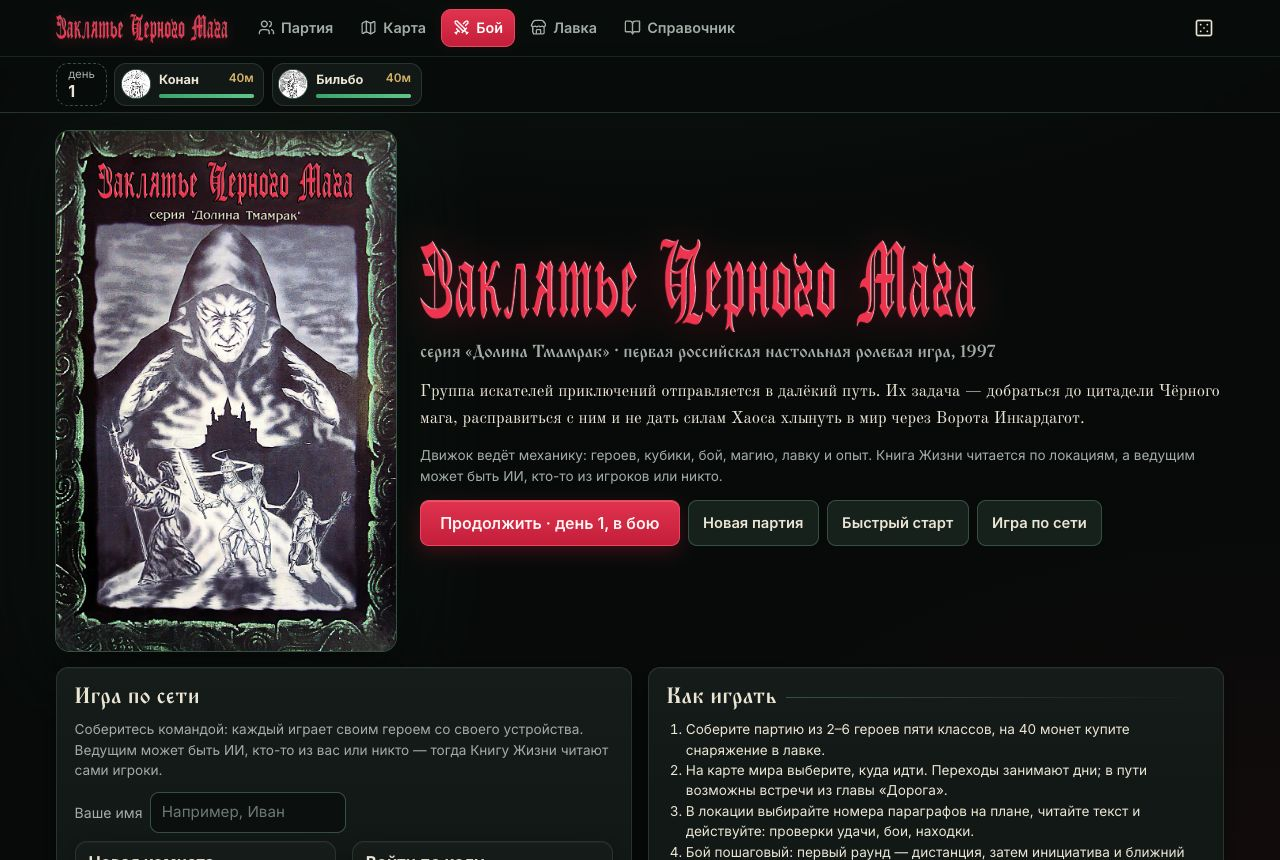
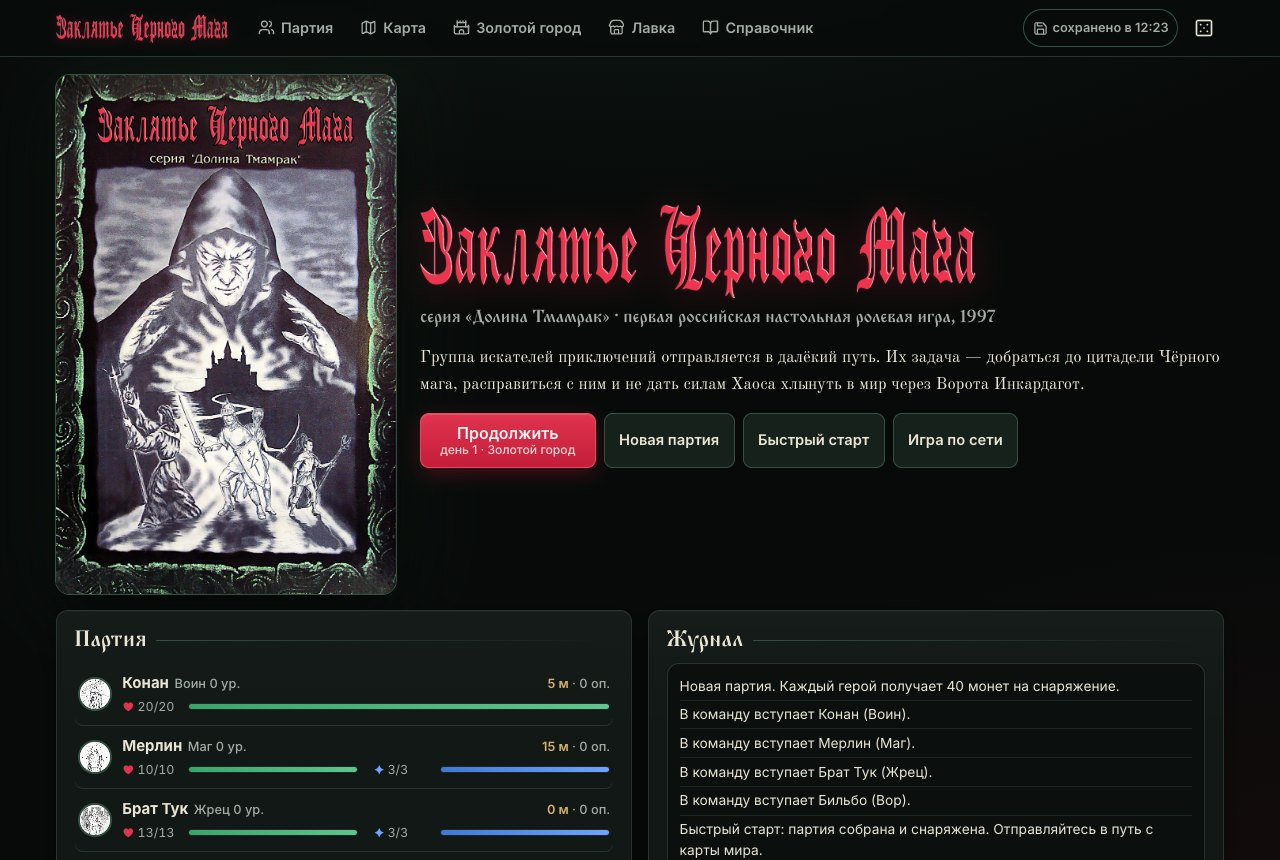
docs: record the interface declutter and re-shoot the readme screenshots
The readme images now come from tools/qa/readme-shots.mjs: home and location on desktop, four phone screens in a row.

diff --git a/docs/PROGRESS.md b/docs/PROGRESS.md
@@ -1,6 +1,6 @@
 # Состояние проекта
 
-Обновлено: 2026-11-20 (тридцатая итерация: планы локаций без «телепорта» — по всем 14 планам партия идёт из помещения в соседнее, видит выходы словами («впереди площадь, направо дверь»), план открывается по мере пути; сетевая игра выложена на https://zchm.onrender.com. Двадцать девятая: игроки проходят сами — карта мира открывается постепенно, ручные инструменты ведущего убраны с экрана игрока и остались только в «Режиме ведущего», читать можно только там, где партия. Двадцать восьмая: репозиторий опубликован, одиночная игра выложена на GitHub Pages — https://goncharof.github.io/zchm/, код под MIT (`LICENSE`, `NOTICE.md`); бесплатный хостинг — комнаты в Postgres (`DATABASE_URL`) для Render + Neon, `render.yaml`, сбой базы не выглядит для игрока как «комната не найдена»; workflow GitHub — тесты на каждый push, Pages только из публичного репозитория. Двадцать седьмая: понятные сохранения — метка «сохранено» в верхней панели и окно «Сохранения» с любого экрана, в сетевой игре «Отложить игру» вместо «Выйти» (герои и права хозяина остаются), «Недавние комнаты» и «Вернуться за стол» на главной, ссылка на комнату подставляет код. Двадцать шестая: плавная передача хода между моделями и сценарным ведущим — молчащая модель уступает через 20 с, а не через полторы минуты, начатый рассказ остаётся у игроков с пометкой и продолжается следующей моделью. Двадцать пятая: ИИ-рассказчик поверх сценарного ведущего (модель дописывает фразу-другую атмосферы к сцене и исходу боя, механику не трогает; хозяин выключает), проверен на живых моделях; модель OpenRouter по умолчанию заменена (прежняя стала платной); Mistral отложен — бесплатный уровень требует карту и депозит. Двадцать четвёртая: составные реплики («берём монеты и идём в 5»), при встрече названы уровень и защита монстра (стр. 18), «Идти дальше» перечисляет непройденные помещения; одиночная игра получила нападения по книге и напоминания-рефери. Двадцать третья: сценарный ведущий начинает бой сам там, где по книге монстры нападают (217 этапов, пометка `attack`), отвечает на «где мы» сводкой (непройденные помещения, невыбранные варианты, незаконченный бой), на вопросы — фразами сцены, и напоминает о назревшем по правилам (герой при смерти, яд, невыбранное заклинание, спутник на последний бой). Двадцать вторая: «Воплощение» и «Возврат времени» в движке — облик монстра до конца боя, повтор действия уже сходившего героя; связки-атмосфера у сценарного ведущего при первом входе в помещение и после боя. Двадцать первая: сценарный ведущий без ИИ — игры в кости по ХАУСРУЛУ (30 мест книги), ручные заклинания жреца и мага по дереву книги и Бестиарию, свободные реплики нажимают подходящую кнопку, «решение стола» для действий, которых нет в книге; сценарный ведущий — режим комнаты по умолчанию; Mistral в цепочке моделей (не проверен); таверна Северного форта — § 37, как на плане (в оцифровке напечатана как 38). Двадцатая: обход Книги Жизни ботом — каждый параграф всеми путями кнопок и сценарный ведущий на настоящей сессии; исправлено: бой с 60 орками не начинался (Крепость рыцарей, § 41), ИИ-ведущий не начинал бой больше чем с 30 монстрами одного вида (Упокоище, § 18 — 40 скелетов), сценарный ведущий действовал героем без сознания. Девятнадцатая: ревью оформления на телефоне и компьютере — альбомная ориентация телефона, подсветка нажатий на тач-экранах, поля ввода без приближения в iOS, поле реплики у нижнего края; новый вид экрана боя, главной, листа героя, лавки и стола. Восемнадцатая: Книга Жизни — дерево этапов для обоих ведущих и одиночной игры, вся книга размечена вручную (413 деревьев), финальная дуэль у сценарного ведущего. Семнадцатая: защита сервера для игры через туннель — права хозяина, подбор кода, размер сообщений, частота ходов ИИ, подсказки модели из чата; лавка без «покупки» артефактов. Шестнадцатая: перелёт на призрачном драконе, «Невидимость» до боя, награды книги — по частям параграфа и через ведущего, списки «на каждый», цель на Гидре, листы героев в две колонки. Пятнадцатая: аудиты боя и приключения, ревью интерфейса — монстры с несколькими атаками, фонтаны и награды книги один раз, закрыта подмена героя по сети, инвентарь и большие бои на телефоне. Четырнадцатая: аудиты заклинаний героев и снаряжения — 22 исправления, чтение свитков, яд для стрел; разметка книги: 186 правок, разрезание слитых веток. Тринадцатая: монстры применяют все свои заклинания — «Очаровывание», «Несчастье»,
+Обновлено: 2026-11-24 (тридцать первая итерация: разгрузка интерфейса — главная при начатой партии стала экраном «Продолжить», настройки комнаты ушли в окно «Комната», подсказки — под «?», полоса партии только там, где нужна, журнал боя — только этот бой, в шапке вкладки не наезжают на плашки. Тридцатая: планы локаций без «телепорта» — по всем 14 планам партия идёт из помещения в соседнее, видит выходы словами («впереди площадь, направо дверь»), план открывается по мере пути; сетевая игра выложена на https://zchm.onrender.com. Двадцать девятая: игроки проходят сами — карта мира открывается постепенно, ручные инструменты ведущего убраны с экрана игрока и остались только в «Режиме ведущего», читать можно только там, где партия. Двадцать восьмая: репозиторий опубликован, одиночная игра выложена на GitHub Pages — https://goncharof.github.io/zchm/, код под MIT (`LICENSE`, `NOTICE.md`); бесплатный хостинг — комнаты в Postgres (`DATABASE_URL`) для Render + Neon, `render.yaml`, сбой базы не выглядит для игрока как «комната не найдена»; workflow GitHub — тесты на каждый push, Pages только из публичного репозитория. Двадцать седьмая: понятные сохранения — метка «сохранено» в верхней панели и окно «Сохранения» с любого экрана, в сетевой игре «Отложить игру» вместо «Выйти» (герои и права хозяина остаются), «Недавние комнаты» и «Вернуться за стол» на главной, ссылка на комнату подставляет код. Двадцать шестая: плавная передача хода между моделями и сценарным ведущим — молчащая модель уступает через 20 с, а не через полторы минуты, начатый рассказ остаётся у игроков с пометкой и продолжается следующей моделью. Двадцать пятая: ИИ-рассказчик поверх сценарного ведущего (модель дописывает фразу-другую атмосферы к сцене и исходу боя, механику не трогает; хозяин выключает), проверен на живых моделях; модель OpenRouter по умолчанию заменена (прежняя стала платной); Mistral отложен — бесплатный уровень требует карту и депозит. Двадцать четвёртая: составные реплики («берём монеты и идём в 5»), при встрече названы уровень и защита монстра (стр. 18), «Идти дальше» перечисляет непройденные помещения; одиночная игра получила нападения по книге и напоминания-рефери. Двадцать третья: сценарный ведущий начинает бой сам там, где по книге монстры нападают (217 этапов, пометка `attack`), отвечает на «где мы» сводкой (непройденные помещения, невыбранные варианты, незаконченный бой), на вопросы — фразами сцены, и напоминает о назревшем по правилам (герой при смерти, яд, невыбранное заклинание, спутник на последний бой). Двадцать вторая: «Воплощение» и «Возврат времени» в движке — облик монстра до конца боя, повтор действия уже сходившего героя; связки-атмосфера у сценарного ведущего при первом входе в помещение и после боя. Двадцать первая: сценарный ведущий без ИИ — игры в кости по ХАУСРУЛУ (30 мест книги), ручные заклинания жреца и мага по дереву книги и Бестиарию, свободные реплики нажимают подходящую кнопку, «решение стола» для действий, которых нет в книге; сценарный ведущий — режим комнаты по умолчанию; Mistral в цепочке моделей (не проверен); таверна Северного форта — § 37, как на плане (в оцифровке напечатана как 38). Двадцатая: обход Книги Жизни ботом — каждый параграф всеми путями кнопок и сценарный ведущий на настоящей сессии; исправлено: бой с 60 орками не начинался (Крепость рыцарей, § 41), ИИ-ведущий не начинал бой больше чем с 30 монстрами одного вида (Упокоище, § 18 — 40 скелетов), сценарный ведущий действовал героем без сознания. Девятнадцатая: ревью оформления на телефоне и компьютере — альбомная ориентация телефона, подсветка нажатий на тач-экранах, поля ввода без приближения в iOS, поле реплики у нижнего края; новый вид экрана боя, главной, листа героя, лавки и стола. Восемнадцатая: Книга Жизни — дерево этапов для обоих ведущих и одиночной игры, вся книга размечена вручную (413 деревьев), финальная дуэль у сценарного ведущего. Семнадцатая: защита сервера для игры через туннель — права хозяина, подбор кода, размер сообщений, частота ходов ИИ, подсказки модели из чата; лавка без «покупки» артефактов. Шестнадцатая: перелёт на призрачном драконе, «Невидимость» до боя, награды книги — по частям параграфа и через ведущего, списки «на каждый», цель на Гидре, листы героев в две колонки. Пятнадцатая: аудиты боя и приключения, ревью интерфейса — монстры с несколькими атаками, фонтаны и награды книги один раз, закрыта подмена героя по сети, инвентарь и большие бои на телефоне. Четырнадцатая: аудиты заклинаний героев и снаряжения — 22 исправления, чтение свитков, яд для стрел; разметка книги: 186 правок, разрезание слитых веток. Тринадцатая: монстры применяют все свои заклинания — «Очаровывание», «Несчастье»,
 «Инициатива», «Паутина» и «Удушье» по всей партии; заклинания, которые движок не отыгрывает, уходят ведущему;
 исправлен самоперезапуск автосохранения; четвёртое ревью — исправлены все находки).
 
@@ -45,7 +45,10 @@
 **Приложение**
 - Оформление в духе коробки 1997 года: логотип — надпись с обложки, обложка на главной, палитра коробки, пергамент
   для текста Книги; современная раскладка — вкладки с иконками на компьютере, нижняя панель на телефоне.
-- Экраны: главная (продолжить, быстрый старт, слоты, журнал), партия, лавка и трактир, карта с маршрутом,
+- Без лишнего на экране (`docs/DECISIONS.md`, «Разгрузка интерфейса»): главная при начатой партии — «Продолжить»,
+  партия и журнал, сетевая игра и сохранения открываются кнопкой; пояснения — под знаком вопроса (`HintTip.vue`);
+  полоса партии — на карте, в локации, за столом и в лавке; настройки комнаты — в окне «Комната».
+- Экраны: главная (продолжить, быстрый старт, журнал), партия, лавка и трактир, карта с маршрутом,
   локация (параграф по этапам: варианты кнопками, исходы открываются сами; «Весь текст» — целиком), бой, бестиарий с фильтрами, заклинания,
   правила, предыстория, об игре.
 - Автосохранение с миграцией, три слота, файл сохранения (скачать / загрузить), режим ведущего, лоток кубиков, автоход монстров,
@@ -60,7 +63,7 @@
   прилипает к нижней панели (`docs/DECISIONS.md`, «Ревью оформления»).
 - Экран боя: панель раунда с медальоном, фазами и чьим ходом, переключатель автохода; на телефоне запасные действия —
   под «Ещё». Герои, которые ещё не сходили, выделены; жизни и мана — числа и полосы в строку.
-- Главная: «Продолжить» с местом второй строкой, партия строками с полосами, компактные слоты. Лист героя: характеристики
+- Главная: «Продолжить» с местом второй строкой, партия строками с полосами. Лист героя: характеристики
   плитками, полосы жизней, маны и опыта, «Убрать» с подтверждением. Лавка: покупатель плашками с монетами.
 
 **Сетевая игра** (см. `docs/DECISIONS.md`, «Сетевая игра командой и ИИ-ведущий»)
@@ -106,7 +109,8 @@
   Длинная партия: когда история Claude разрастается, разговор начинается заново с краткого содержания.
 - Защита сервера: проверка всех входящих сообщений схемами, ограничение частоты (реплики ведущему — 4 в минуту
   на игрока, они расходуют квоты моделей).
-- Интерфейс: «Игра по сети» на главной, экран «Стол» (чат с ведущим, партия, план), «Взять героя», в бою
+- Интерфейс: «Игра по сети» на главной, экран «Стол» (чат с ведущим и журнал), окно «Комната» (код, игроки, режим
+  ведущего, «Отложить игру») с любого экрана, «Взять героя», в бою
   ходят только свои герои, при ИИ-ведущем текст книги скрыт и номер на плане — реплика ведущему.
 - Ход по готовности (переключает хозяин): реплики копятся, ведущий отвечает всем одним ходом, когда готовы все
   активные игроки; экономит запросы к моделям. В этом режиме кнопки сценарного ведущего — голосование.
@@ -144,6 +148,8 @@
   844×390 (оба с касаниями) со скриншотами и отчётом об ошибках консоли, HTTP-ошибках и горизонтальной прокрутке;
   `node tools/qa/offline.mjs` — игра без сети.
   Последние прогоны — без замечаний.
+- `node tools/qa/readme-shots.mjs` — скриншоты для README (`docs/img`: главная и локация на компьютере, четыре экрана
+  телефона в ряд); переснимать после заметных изменений интерфейса.
 - `node tools/qa/online.mjs` с `pnpm server` без ключей (сценарный ведущий) или с `tools/qa/fake-gm-server.ts`
   (демо-«ИИ») — два игрока: вход по коду, «Взять героя», вход в локацию, сцена с кнопками, проверка удачи,
   ветка; текст книги гостю не виден. Без замечаний.

diff --git a/docs/DECISIONS.md b/docs/DECISIONS.md
@@ -964,3 +964,29 @@ WebRTC (PeerJS) без сервера. Хранить состояние на с
 - **Что не сделано.** Разметку делал ИИ по картинкам: связи в `notes` каждого плана помечены как сомнительные и ждут
   проверки владельцем (в «Режиме ведущего» — «показать связи помещений»). Запрет действует для команды `moveTo` и у
   ведущих; команда `markVisited` в движке осталась.
+
+## 2026-11-24 — Разгрузка интерфейса: окно «Комната», подсказки под «?», полоса партии по экранам
+Владелец: «интерфейс как будто перегружен». Прогон всех экранов (1280 и 390 px) показал, что шумит не оформление, а
+три вещи: одно и то же по два-три раза, постоянные пояснения и настройки на игровых экранах. Механика не менялась.
+- **Главная при начатой партии — экран «Продолжить».** Остались кнопки, «Партия» и «Журнал». Карточка «Игра по сети»
+  раскрывается кнопкой (новичку и гостю по ссылке `…?room=КОД` видна сразу), «Как играть» видна до начала партии и
+  живёт в «Правилах» (`HowToPlay.vue`), карточки «Сохранения» нет — есть окно с любого экрана (метка в шапке, «Ещё»
+  на телефоне, до начала партии — «Загрузить сохранение»). На телефоне главная стала 1594 px вместо 3744.
+- **Окно «Комната»** (`roomOpen` в `src/ui/dialogs.ts`, `OnlinePanel bare` в `App.vue`): код и ссылка, игроки, режим
+  ведущего, «сразу / когда все готовы», рассказчик, «Отложить» и «Покинуть». Открывается плашкой с кодом в шапке,
+  кнопкой «Комната» за столом и на главной, пунктом в «Ещё». Меняют это раз за вечер, а висело оно на столе всегда.
+- **Стол — чат и журнал.** Карточка партии убрана (полоса партии сверху та же), «Карта» и локация — во вкладках.
+  План локации целиком на столе остался только живому ведущему: игрокам он показывался без тумана и выдавал то, что
+  на экране локации открывается по мере пути. Переключатель «Ведущему / Игрокам» — в одной строке с полем реплики.
+- **Подсказки под «?»** (`HintTip.vue`): как ходить по локации, как читать параграф, как путешествовать, как
+  считается удар. На компьютере всплывают у кнопки, до 900 px — плашкой над нижней панелью (у кнопки окно вылезло бы
+  за край). Остались на виду только пояснения состояния: «Клинки — после „Сойтись вплотную“», трофеи после боя.
+- **Полоса партии** — на карте, в локации, за столом и в лавке. В бою, на главной и в «Партии» герои уже на экране,
+  в справочнике они не нужны (`:root.no-partybar` обнуляет `--partybar-h` для липких элементов).
+- **Бой.** Журнал под боем — только этот бой (`fightLog` в `src/engine/combat.ts`, по записи «Бой начинается»: журнал
+  партии обрезается, номер записи не годится). «Бежать» и «Пропустить» — без рамки, справа от удара. Автоход,
+  «Закончить ход героев» и инструменты ведущего — под «Ещё» и на компьютере. «Нажмите, чтобы выбрать цель» — только
+  когда противников больше одного.
+- **Шапка.** В комнате на 1280 px «Справочник» заезжал под плашку с кодом. Вкладки больше не сжимаются, место уступает
+  название локации (до значка); метка сохранения в комнате — значок, пока связь есть (о связи говорит плашка комнаты).
+- Страницы «Книга Жизни, стр. N–M» в шапке локации видит ведущий (у него книга в руках), игрок — в подсказке заголовка.

diff --git a/README.md b/README.md
@@ -11,11 +11,15 @@
 
 ![Главный экран на компьютере](docs/img/home-desktop.jpg)
 
+![Локация: выходы из помещения, параграф Книги Жизни и план, который открывается по мере пути](docs/img/location-desktop.jpg)
+
 ![Телефон: главная, локация, бой, бестиарий](docs/img/mobile.jpg)
 
 ## Что есть
 - Партия из пяти классов (воин, варвар, вор, маг, жрец), уровни 0–12, лавка, трактиры, быстрый старт.
-- Карта мира с дорогами и днями пути, случайные встречи из главы «Дорога».
+- Карта мира с дорогами и днями пути, случайные встречи из главы «Дорога»; карта открывается по мере пути.
+- По локации партия идёт из помещения в соседнее: выходы названы словами («впереди площадь, направо дверь»),
+  план проступает из тумана там, где партия уже была.
 - 15 локаций Книги Жизни, 647 параграфов. В 277 из них выделены ветки решений: исход открывается по выбору
   игроков, кнопки проверок удачи, боя, находок и платежей берутся из текста.
 - Пошаговый бой по правилам: дистанция, инициатива, храбрость, особые атаки, бегство, стрелы и метательное оружие,
@@ -25,9 +29,11 @@
 - Финальная схватка с Чёрным магом.
 - Режим ведущего: текст параграфов скрыт, чтобы его читал живой ведущий.
 - Игра по сети командой: ИИ-ведущий (цепочка бесплатных моделей и Claude), сценарный ведущий без ИИ или живой
-  ведущий с пультом; чат с любого экрана, ход по готовности, голосование, озвучка, возврат после обновления страницы.
+  ведущий с пультом; чат с любого экрана, ход по готовности, командные решения с коротким отсчётом, озвучка,
+  «Отложить игру» и возврат за стол в следующий раз или после обновления страницы.
 - Оформление в духе коробки 1997 года: логотип и обложка с коробки, гравюры, пергамент для текста Книги; удобно
-  и на телефоне, и на компьютере.
+  и на телефоне, и на компьютере. На экране только то, что нужно для хода: пояснения — под знаком вопроса,
+  сохранения и настройки комнаты — в окнах.
 
 ## Запуск
 ```bash

diff --git a/CLAUDE.md b/CLAUDE.md
@@ -47,6 +47,7 @@ pnpm data:plans     # tools/plans/<локация>.json → src/data/plans.json 
 pnpm exec tsx tools/plan_text.ts <id>   # начало текста каждого параграфа локации — помощник разметки плана
 node tools/qa/screens.mjs [url] [outDir]  # при запущенном pnpm dev: проход по экранам в Chrome, скриншоты desktop/mobile в tools/qa/out, отчёт об ошибках и горизонтальной прокрутке
 node tools/qa/offline.mjs [url]           # при pnpm build && pnpm preview --port 5178: проверка игры без сети
+node tools/qa/readme-shots.mjs [url] [outDir]  # при pnpm dev --port 5177: скриншоты для README → docs/img/*.jpg
 pnpm qa:book        # обход Книги Жизни ботом: все пути кнопок + сценарный ведущий → tools/qa/out/book-walk.md (после правки разметки)
 ```
 
@@ -92,6 +93,8 @@ docs/            документация проекта
 - По локации партия идёт из помещения в соседнее (`src/engine/plans.ts`, `GameSession.moveTo`); тесты механики книги
   открывают помещения по номеру — правило планов в них выключено в `tests/setup.ts`, включает его `enablePlans()`.
 - После заметных изменений обновлять `docs/PROGRESS.md` (что сделано, что дальше) и при необходимости `docs/DECISIONS.md`.
+- README — витрина публичного репозитория: после заметных изменений интерфейса или возможностей переснять скриншоты
+  (`node tools/qa/readme-shots.mjs`) и сверить раздел «Что есть».
 - Коммиты — по скиллу `.claude/skills/commit`: Conventional Commits `type(scope): описание строчными` на английском,
   одно логическое изменение на коммит, **без `Co-Authored-By`**; вариант сообщения 1 («что сделано») без ожидания выбора.
 

diff --git a/docs/ARCHITECTURE.md b/docs/ARCHITECTURE.md
@@ -92,6 +92,6 @@ source/pdf ──(tools/*.py)──► src/data/*.json + public/img/**
 Протокол — `src/net/protocol.ts` (общие типы), клиент — `src/net/client.ts` (`NetClient`: вызов команд с
 подтверждением, чат, автоматический возврат в комнату после обрыва; вход хранится в `localStorage`).
 
-Экраны сетевой игры: панель «Игра по сети» на главной (`OnlinePanel`), «Стол» (`/table`: чат с ведущим
-`GmChat`, партия, план), лист партии с «Взять героя», локация без текста книги при ИИ-ведущем (номер на
+Экраны сетевой игры: панель «Игра по сети» на главной (`OnlinePanel`; в комнате — окно «Комната», `roomOpen` в
+`src/ui/dialogs.ts`), «Стол» (`/table`: чат с ведущим `GmChat` и журнал; живому ведущему — пульт и план), лист партии с «Взять героя», локация без текста книги при ИИ-ведущем (номер на
 плане — реплика ведущему).
